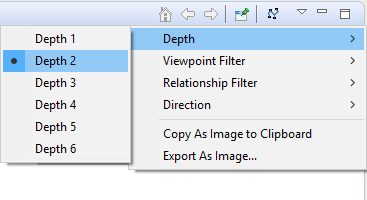
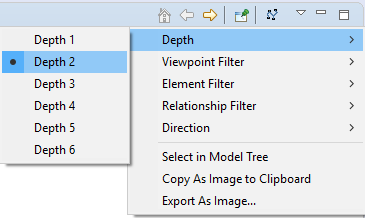
[Help] Visualiser Element Filter

diff --git a/com.archimatetool.help/help/Text/visualiser.html b/com.archimatetool.help/help/Text/visualiser.html
@@ -30,9 +30,13 @@
 
 	<p>You can filter the displayed elements in the Visualiser from the "Viewpoint Filter" menu. This will display only those elements that are permissable in the given Viewpoint. To view all elements select the "None" Viewpoint. For more information see the <a href="viewpoints.html">Viewpoints</a> section.</p>
     
-    <h2>Relationship Filter</h2>
+	<h2>Element Filter</h2>
 
-	<p>You can filter the displayed relationship in the Visualiser from the "Relationship Filter" menu. This will display only the selected relationship. To view all relationships select the "All" option.</p>
+	<p>You can filter the displayed type of element in the Visualiser from the "Element Filter" menu. This will display only the selected element type. To view all element types select the "All" option.</p>
+
+	<h2>Relationship Filter</h2>
+
+	<p>You can filter the displayed relationship in the Visualiser from the "Relationship Filter" menu. This will display only the selected relationship type. To view all relationship types select the "All" option.</p>
     
     <h2>Direction</h2>
 
